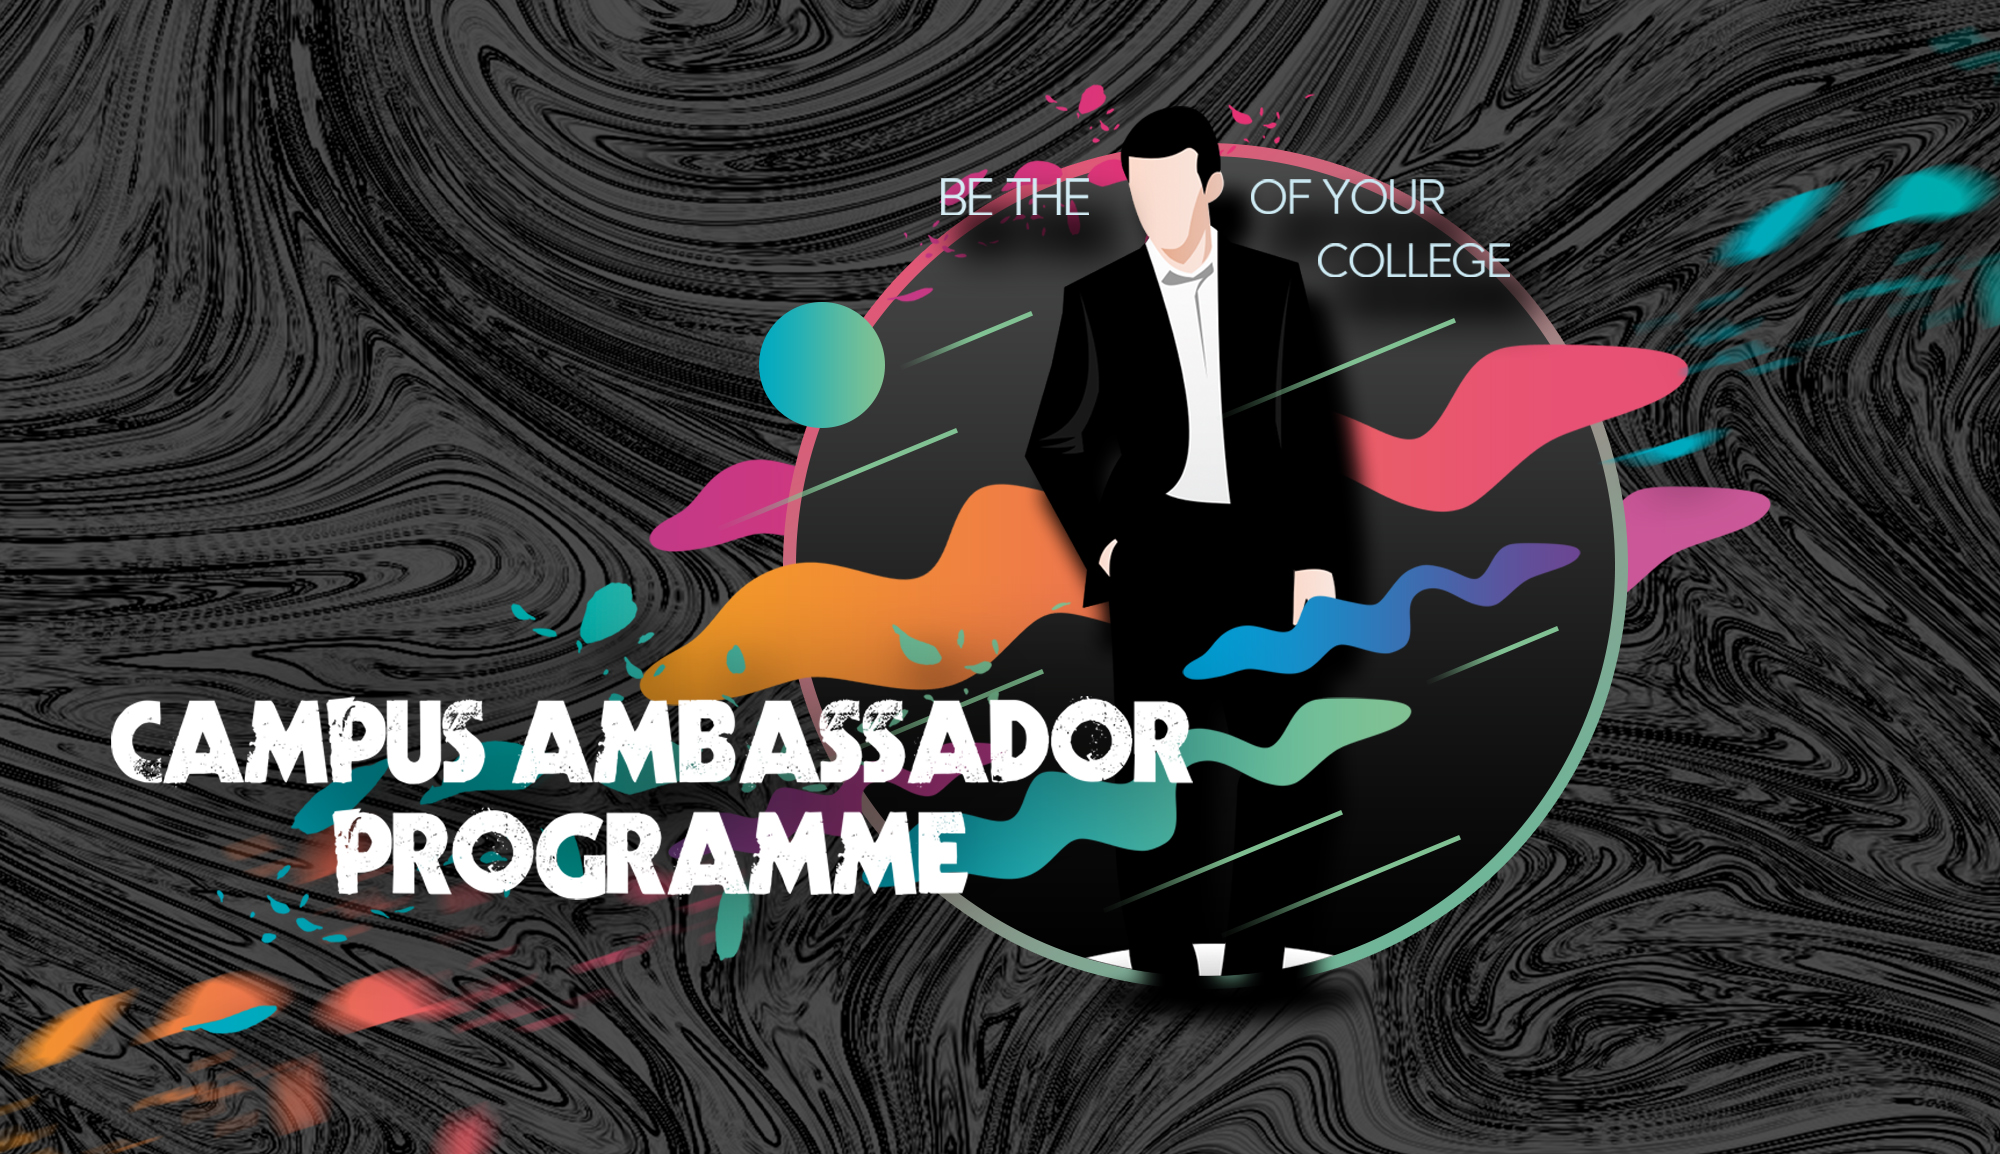
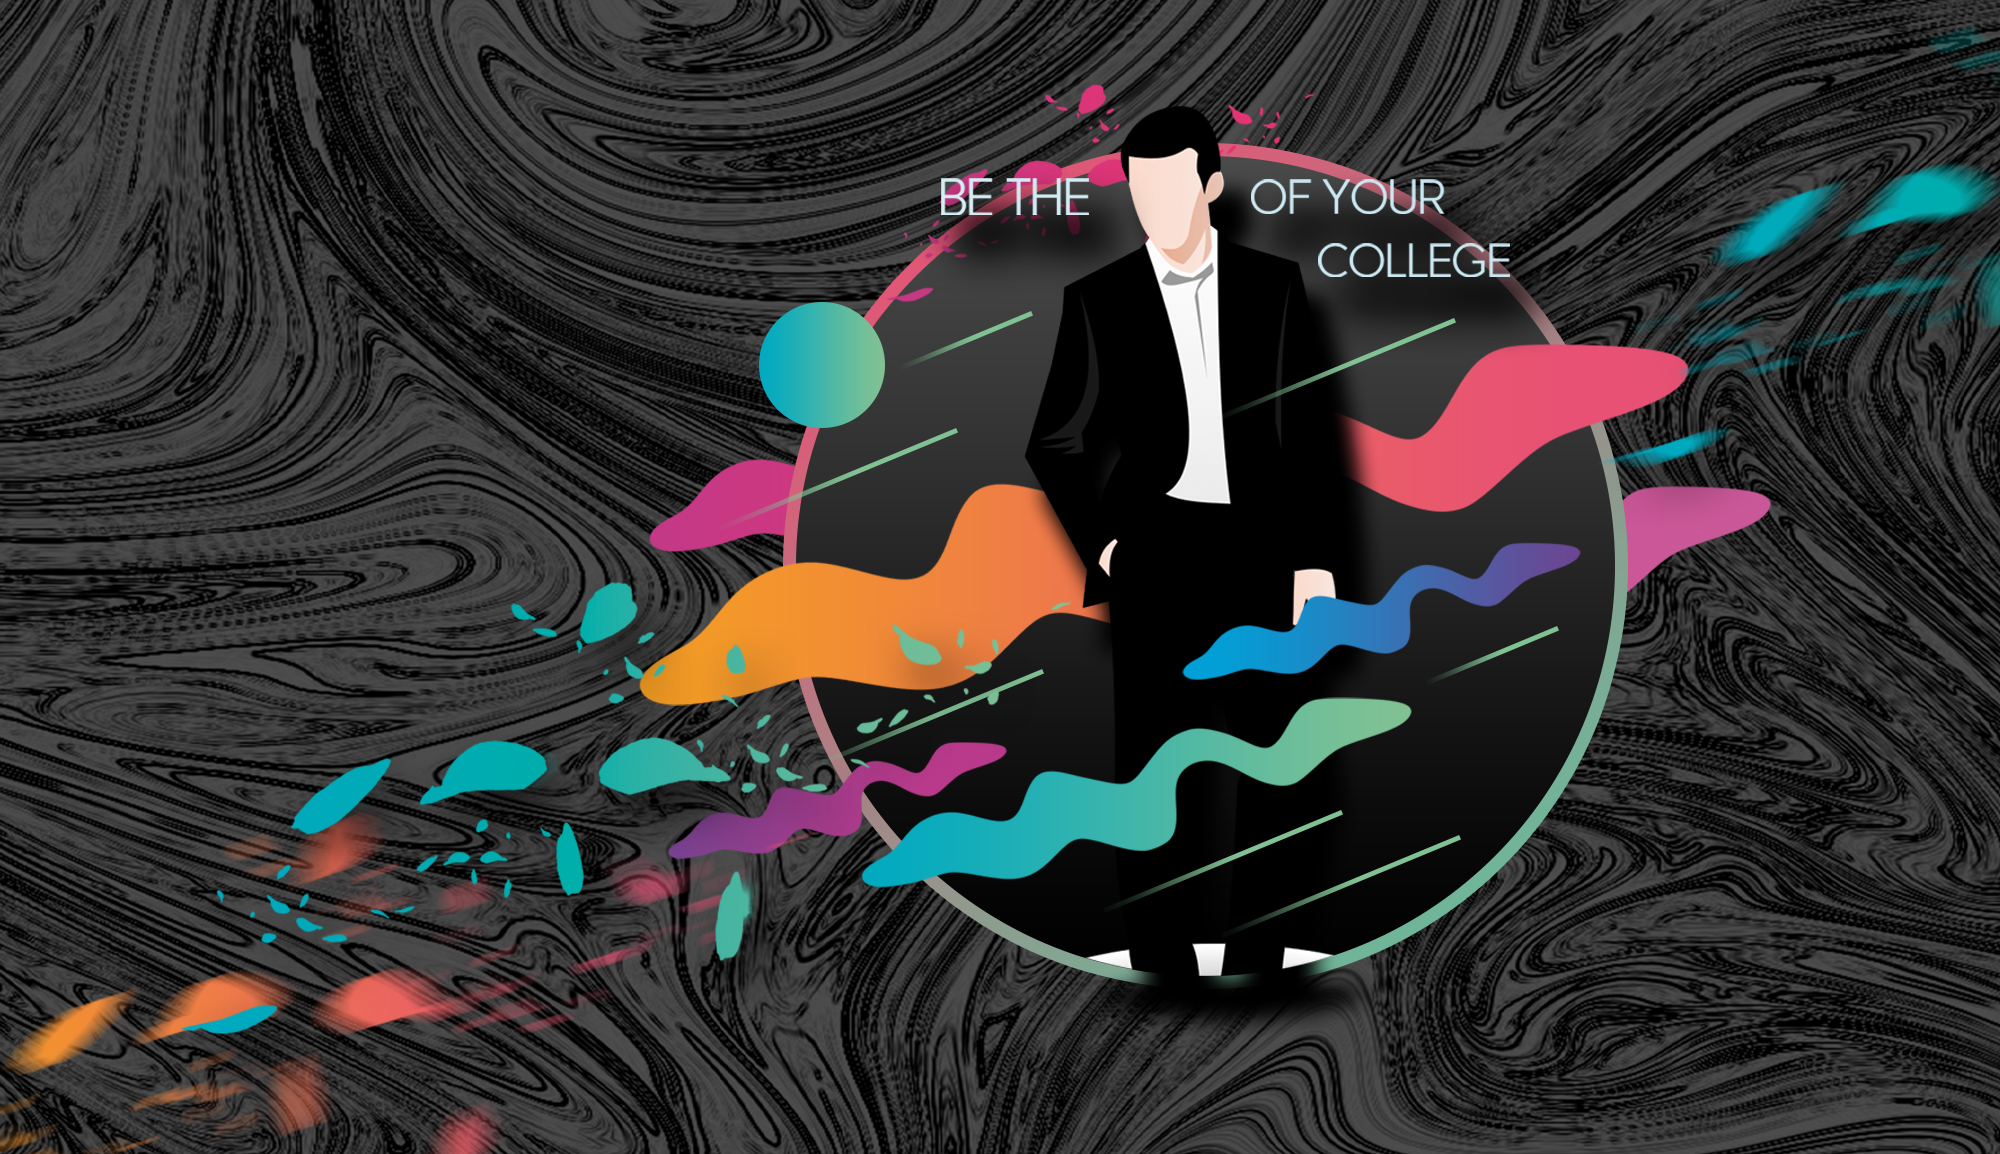
cap

Changed region(s): [[0.031, 0.5615, 0.62, 0.8111]]

diff --git a/CAP/register.html b/CAP/register.html
@@ -175,9 +175,7 @@ overlay.style.display='none';
       <div class="container">
         <div class="row no-gutters slider-text align-items-end justify-content-start">
           <div class="col-md-8 ftco-animate text-center text-md-left mb-5">
-          	<p class="breadcrumbs mb-0"><span class="mr-3"><a href="../index.html">Home <i class="ion-ios-arrow-forward"></i></a></span> <span>CAP</span></p>
-            
-          </div>
+            <p><img src="../images/cap.png" width="60%"></p>
         </div>
       </div>
     </div>
